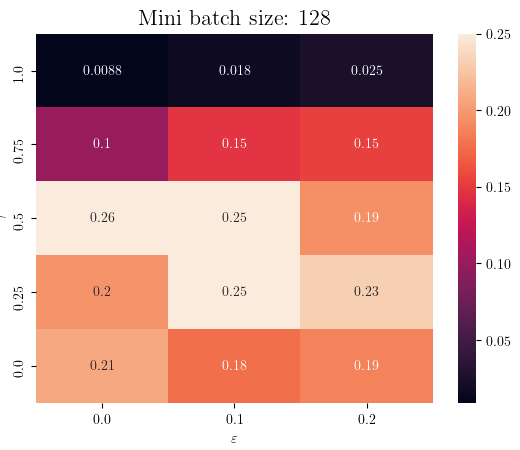
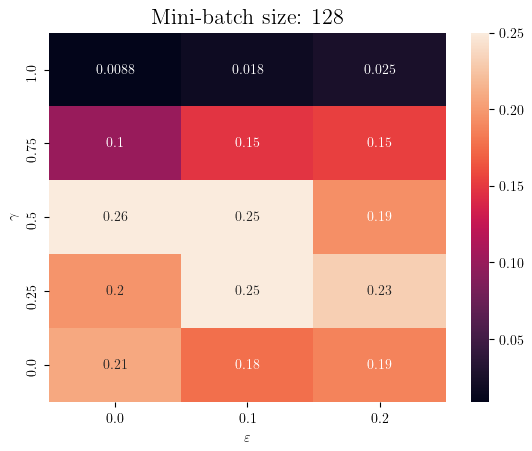
Work

diff --git a/misc/plot_game_result.py b/misc/plot_game_result.py
@@ -1,0 +1,188 @@
+import matplotlib.pyplot as plt
+import csv
+from os import listdir, makedirs
+from os.path import isfile, join, isdir
+import pandas as pd
+import seaborn as sns
+import pprint
+
+
+def save_fig(name, folder):
+    path_to_res = join("../result/frozen/", folder)
+
+    # Save fig to disk
+    if not isdir(path_to_res):
+        makedirs(path_to_res)
+    plt.savefig(join(path_to_res, name))
+
+
+def use_tex():
+    # Set up for use of tex in plt
+    plt.rc('text', usetex=True)
+    plt.rc('font', family='serif')
+
+
+def __group_by_run(dir):
+    files = [f for f in listdir(dir) if isfile(join(dir, f))]
+    temp = {}
+    for f in files:
+        group_name = f[:-8]
+        if group_name not in temp:
+            temp[group_name] = [f]
+        else:
+            temp[group_name].append(f)
+
+    return temp
+
+def calc_avg_win(dir, files):
+    tot_win = []
+    epochs = []
+    first_file = True
+
+    for file in files:
+
+        with open(join(dir, file), 'r') as csv_file:
+            data = csv.reader(csv_file, delimiter=',')
+
+            for row in data:
+                # Parse data
+                epoch = int(row[0])
+                win = int(row[2])
+
+                if first_file:
+                    epochs.append(epoch)
+                    tot_win.append(win)
+                else:
+                    tot_win[epoch - 1] += win
+
+        first_file = False
+
+    # Calc avg
+    avg_win = list(map(lambda x: float(x) / (len(files)), tot_win))
+    return epochs, avg_win
+
+
+def parse_score_per_round(last_round, curr_round, accumulator=0):
+    diff = curr_round - last_round
+    last_round = curr_round
+
+    if diff == 1:
+        accumulator += 1
+
+    print(f"last round {last_round} curr_round {curr_round} diff {diff} accumulator {accumulator}")
+    return accumulator, last_round
+
+
+def was_round_a_win(last_round, curr_round):
+    diff = curr_round - last_round
+    return diff == 1, curr_round
+
+
+def mark_won_epochs(won_epochs, avg_win):
+    for epoch in won_epochs:
+        plt.plot(epoch, avg_win[epoch], 'ro', color='g', alpha=.7)
+
+
+def calc_won_epochs(dir, files):
+
+    for file in files:
+
+        with open(join(dir, file), 'r') as csv_file:
+            data = csv.reader(csv_file, delimiter=',')
+
+            won_epochs = []
+
+            last_round = 0
+
+            for row in data:
+                # Parse data
+                epoch = int(row[0])
+                curr_round = float(row[1])
+
+                is_win, last_round = was_round_a_win(last_round, curr_round)
+
+                if is_win:
+                    won_epochs.append(epoch)
+
+    print(f"Won {len(won_epochs)} epochs: {won_epochs} ")
+
+    return won_epochs
+
+
+def calc_avg_win_per_epoch(dir, files):
+    tot_win = []
+    epochs = []
+    first_file = True
+
+    for file in files:
+
+        with open(join(dir, file), 'r') as csv_file:
+            data = csv.reader(csv_file, delimiter=',')
+
+            last_round = 0
+            accumulator = 0
+
+            for row in data:
+                # Parse data
+                epoch = int(row[0])
+
+                win = float(row[2])
+
+                # To plot acc score
+                # accumulator, last_round = parse_score_per_round(last_round, float(row[1]), accumulator)
+                # win = accumulator
+
+                if first_file:
+                    epochs.append(epoch)
+                    tot_win.append(win)
+                else:
+                    tot_win[epoch] += win
+
+        first_file = False
+
+    # Calc avg
+    avg_win = list(map(lambda x: float(x) / (len(files)), tot_win))
+
+    print(len(avg_win))
+
+    # Calc rolling mean
+    N = 1
+    avg_win = pd.Series(avg_win).rolling(window=N).mean().iloc[N - 1:].values
+    return epochs[:len(avg_win)], avg_win
+
+
+# Plot one plot with all runs avg
+def plot_game_res(dir):
+    # Constants
+    nr_to_highlight = 5
+    color = ['b', 'g', 'r', 'c', 'm']
+
+    translations = {}
+    test_nr = 1
+
+    # Read files from dir and group them
+    all_runs = __group_by_run(dir)
+
+    # Plot the results
+    for run_params, files in all_runs.items():
+        epochs, avg_win = calc_avg_win_per_epoch(dir, files)
+
+        won_epochs = calc_won_epochs(dir, files)
+        mark_won_epochs(won_epochs, avg_win)
+
+        label = f"Agent {test_nr}"
+        test_nr += 1
+        translations[label] = run_params
+        plt.plot(epochs, avg_win, label=label, color=color.pop())
+
+    # plt.title("All runs")
+    plt.xlabel('Number of epochs')
+    plt.ylabel('SC2 Score')
+    plt.legend()
+
+    save_fig("score_per_epoch.png", "")
+
+    plt.show()
+
+
+plot_game_res("../Data/game/sc2_score/train")

diff --git a/misc/plot_MTB_result.py b/misc/plot_MTB_result.py
@@ -154,7 +154,7 @@ def add_random_data(dir):
 
     for run_params, files in random_runs.items():
         epochs, avg_win = calc_avg_win_per_epoch(dir, files)
-        plt.plot(epochs, avg_win, label="Random", color="k")
+        plt.plot(epochs, avg_win, label="Random Action-Policy", color="k")
 
 
 def calc_avg_win(dir, files):
@@ -226,7 +226,7 @@ def plot_mtb_res_avg(dir):
         epochs, avg_win = calc_avg_win_per_epoch(dir, files)
 
         if run_params in best_runs.keys():
-            label = f"Sample {test_nr}"
+            label = f"Agent {test_nr}"
             test_nr += 1
             translations[label] = run_params
             plt.plot(epochs, avg_win, label=label, color=color.pop())
@@ -317,7 +317,7 @@ def plot_mtb_heatmap(dir):
 
         print(f"Not tracked {not_tracked}")
         epsilon_val = ''.join([str(i) for i in not_tracked[:-5] if i.isdigit() or i == '.'])
-        titel = f"Mini batch size: {epsilon_val}" #"$\\varepsilon = {epsilon_val}$"
+        titel = f"Mini-batch size: {epsilon_val}" #"$\\varepsilon = {epsilon_val}$"
 
         # Setup figure
         plt.title(titel, fontsize=16)
@@ -327,6 +327,6 @@ def plot_mtb_heatmap(dir):
         plt.show()
 
 
-plot_mtb_res_avg("../Data/MTB/no_imi/train")
+# plot_mtb_res_avg("../Data/MTB/no_imi/train")
 # plot_mtb_res("../Data/Frozen/train")
-# plot_mtb_heatmap("../Data/MTB/valid")
+plot_mtb_heatmap("../Data/MTB/no_imi/valid")
